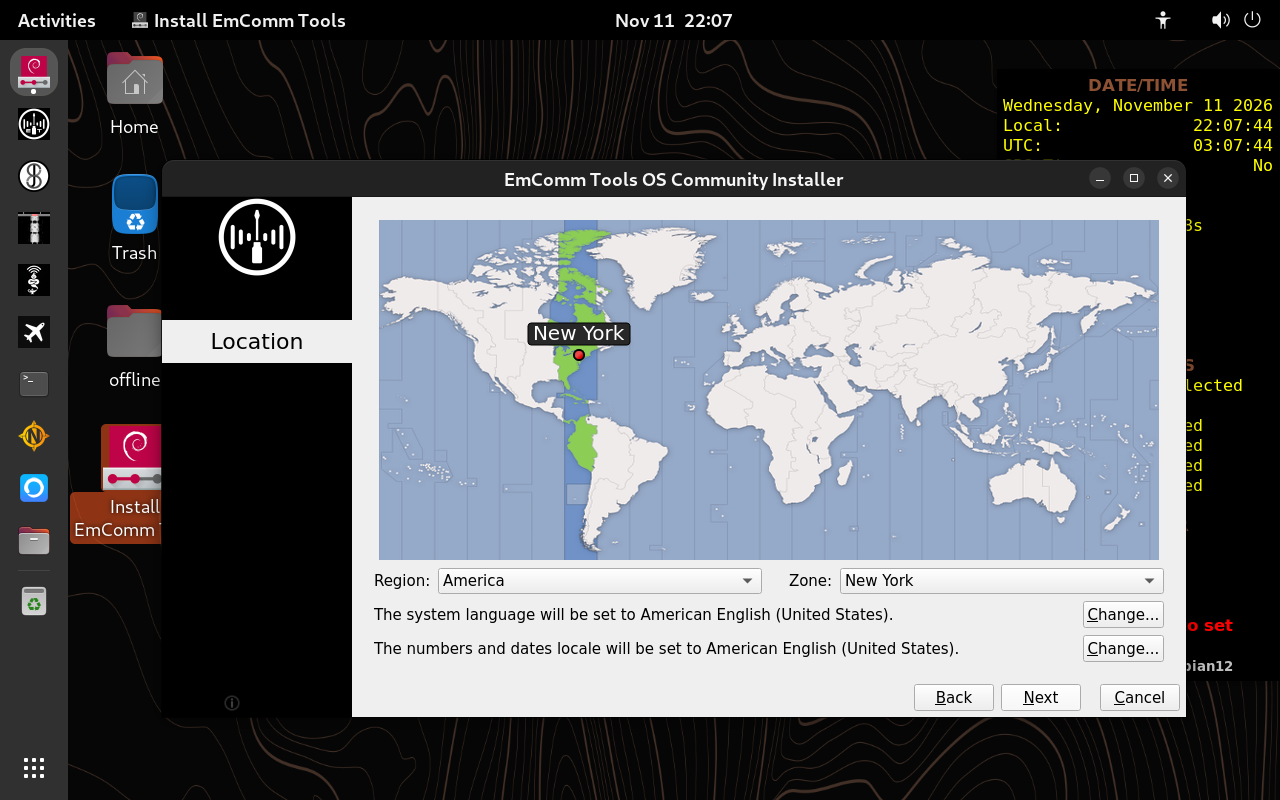
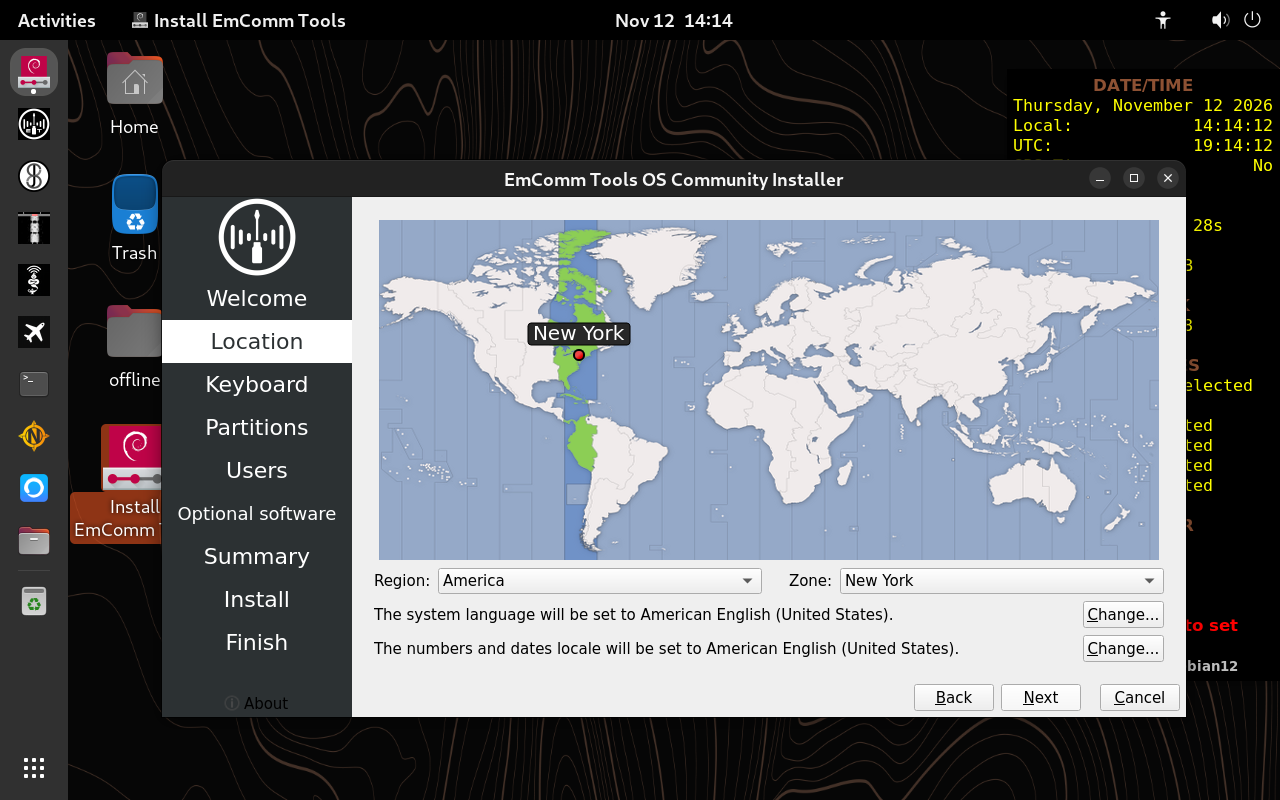
debian - Installer encryption choice as buttons; repo copy in /opt; docs
- Optional software page: "Skip encryption tools" (default) and "Install
  encryption tools", drawn as buttons by a new branding stylesheet.qss.
- Keep a read-only copy of the repository (tracked files, no git history)
  in /opt/emcomm-tools-os-community.
- build.sh no longer copies a xara-*.tar.gz into the ISO.
- Install guide: after-install steps removed pending decisions on maps,
  .zim files and xara; installer screenshots 07-15 recaptured.
- CHANGES-OVERVIEW.md, ISO-BUILD-PLAN.md updated to match.

diff --git a/CHANGES-OVERVIEW.md b/CHANGES-OVERVIEW.md
@@ -30,16 +30,16 @@ asks none, so each is handled differently now:
 
 | r7 question | Where | Now |
 |---|---|---|
-| OSM state map (Navit) | `download-osm-maps.sh` | Not in the ISO. For now, users copy a `.osm.pbf` state map to `~/my-maps/` after install ([INSTALL-GUIDE.md](docs/INSTALL-GUIDE.md)). Suggested next step: a map step after install that runs `download-osm-maps.sh` for the user when online |
-| ETC map tiles: US, Canada or world | `download-et-maps.sh` | The world map (80 MB) is in the ISO. For now, users copy US or Canada `.mbtiles` to `~/.local/share/emcomm-tools/mbtileserver/tilesets/` after install ([INSTALL-GUIDE.md](docs/INSTALL-GUIDE.md)). Suggested next step: the same map step runs `download-et-maps.sh` |
-| Wikipedia file (`ET_EXPERT`) | `download-wikipedia.sh` | No `.zim` files ship with the ISO; the Kiwix reader is installed. For now, users download or copy `.zim` files after install ([INSTALL-GUIDE.md](docs/INSTALL-GUIDE.md)). Suggested next step: the same map step also offers `download-wikipedia.sh` when online |
-| VARA/WINE notes (`ET_EXPERT`) | `install-wine.sh`, `wine.txt` | WINE, winetricks and the VARA add-on scripts (`~/add-ons/wine`) are in the ISO; VARA itself isn't. Users install it after install, with internet or by restoring a WINE backup made with `05-backup-wine-install.sh` (`cd ~ && tar -xzf etc-wine-backup-*.tar.gz`). Covered in [INSTALL-GUIDE.md](docs/INSTALL-GUIDE.md) |
+| OSM state map (Navit) | `download-osm-maps.sh` | Not in the ISO. **Decision needed:** how users add state maps after install, for example copying `.osm.pbf` files in and converting them with `maptool`, or running `download-osm-maps.sh` (needs internet; it saves into `/etc/skel`) |
+| ETC map tiles: US, Canada or world | `download-et-maps.sh` | The world map (80 MB) is in the ISO. **Decision needed:** how users add US or Canada tiles after install, for example copying `.mbtiles` files in, or running `download-et-maps.sh` (needs internet; it saves into `/etc/skel`) |
+| Wikipedia file (`ET_EXPERT`) | `download-wikipedia.sh` | No `.zim` files ship with the ISO; the Kiwix reader is installed. **Decision needed:** how users add `.zim` files after install, for example copying them in, or running `download-wikipedia.sh` (needs internet; it saves into `/etc/skel`) |
+| VARA/WINE notes (`ET_EXPERT`) | `install-wine.sh`, `wine.txt` | WINE, winetricks and the VARA add-on scripts (`~/add-ons/wine`) are in the ISO; VARA itself isn't. Users install it after install, with internet or by restoring a WINE backup made with `05-backup-wine-install.sh` (`cd ~ && tar -xzf etc-wine-backup-*.tar.gz`). `~/add-ons/wine/README.md` covers both |
 
 Other changes users will notice:
 
 | Change | Effect |
 |---|---|
-| xara | Upstream source was withdrawn; built only if `scripts/xara-*.tar.gz` is provided. Deferred to the next release |
+| xara | Not in the ISO: its source was withdrawn, and `build.sh` doesn't copy a `xara-*.tar.gz` from `scripts/`. Rust stays installed. **Decision needed:** how users add xara after install, for example building their own source with ETC's unchanged `install-xara.sh` as `scripts/xara.md` describes (needs internet for xara's Rust crates), or offline with the crates included (`cargo vendor` in the user's source, or pre-fetched into the ISO from a pinned xara `Cargo.lock`) |
 | Encryption tools | Always installed in r7. Now asked by the installer's **Optional software** page; not selected by default. The page (and `install.sh`'s prompt) says not to install them where encryption is illegal |
 | Installer | This is a Live CD ISO image and will boot into a working GNOME desktop.  Decision to install requires clicking the button
 
@@ -100,8 +100,8 @@ Debian 12 install. To watch in hardware testing: VARA under WINE 8.0.
 ## Size/Scope of this migration
 
 Branch `feature/debian-live-iso` against `release/r7` at build37
-(`emcomm-tools-os-community-20261111-r7-build37`, merged in): **95 files,
-+1,686 / −341 lines** (not counting this document).
+(`emcomm-tools-os-community-20261111-r7-build37`, merged in): **96 files,
++1,689 / −341 lines** (not counting this document).
 
 It's less than it looks:
 
@@ -117,9 +117,9 @@ It's less than it looks:
 
 | # | Category | Files | Lines +/− | Why |
 |---|---|---|---|---|
-| 1 | Installer: Ubiquity → Calamares | 22 | +313 / −209 | Ubuntu's installer doesn't exist on Debian. The 8 slideshow images only moved. The 9 Ubiquity HTML slides were deleted, and the same 8 slides were ported to one Calamares `show.qml` (264 lines). |
-| 2 | Docs | 20 | +342 | Release notes; developer build guide; end-user install guide. |
-| 3 | New ISO build (live-build) | 16 | +472 | Replaces Cubic. All new files; nothing existing changed. |
+| 1 | Installer: Ubiquity → Calamares | 23 | +344 / −209 | Ubuntu's installer doesn't exist on Debian. The 8 slideshow images only moved. The 9 Ubiquity HTML slides were deleted, and the same 8 slides were ported to one Calamares `show.qml` (264 lines). |
+| 2 | Docs | 20 | +302 | Release notes; developer build guide; end-user install guide. |
+| 3 | New ISO build (live-build) | 16 | +484 | Replaces Cubic. All new files; nothing existing changed. |
 | 4 | Debian package and OS differences | 16 | +115 / −74 | A small edit in each script that named an Ubuntu package, version or URL. |
 | 5 | Encryption tools opt-in | 11 | +221 / −23 | Distribution requirement, not Debian's. `install-crypto.sh` is most of it. The guide files (`gpg-cheatsheet.md`, `steghide.md`, `steghide.jpg`) were moved unchanged, so only users who choose the tools get them. |
 | 6 | Desktop parity with r7 | 6 | +77 / −20 | Ubuntu builds in its dock, theme and tray icons; Debian needs them added. No automatic update checks, as in r7. |
@@ -144,7 +144,8 @@ migration, at the cost of r7's look and some live-session usability:
 | `configure-user.sh` doesn't fail if `et-data` exists | Lets `install.sh` run twice on the same system | Yes; the ISO build runs it once |
 | Update checks off: GNOME Software settings and login service, apt's daily timers | r7 removed Ubuntu's update-notifier; an offline system shouldn't try | No (requested) |
 | `build.sh` keeps live-build's download cache | Faster rebuilds | Yes |
-| End-user install guide with screenshots ([INSTALL-GUIDE.md](docs/INSTALL-GUIDE.md)): Ventoy stick with a folder for maps, `.zim` files and VARA backups; booting; installing; copying those files in after install | The installer and boot steps changed from r7; users need current instructions | Yes; it's documentation only |
+| Read-only repository copy in `/opt/emcomm-tools-os-community` | ETC's scripts and test suite on every system, matching the ISO; r7's Cubic steps leave their extracted copy in the image (Cubic's terminal starts in `/root`), out of users' reach | Yes; the test suite would be copied in instead |
+| End-user install guide with screenshots ([INSTALL-GUIDE.md](docs/INSTALL-GUIDE.md)): checking the download, Ventoy stick, booting, the live system, installing | The installer and boot steps changed from r7; users need current instructions | Yes; it's documentation only |
 
 ## Verified (11–12 Nov 2026)
 
@@ -195,6 +196,7 @@ have et-api start without it.
 | `overlay/etc/calamares/branding/emcomm-tools/screenshots/*.png` (7), `background.png` | Moved from the Ubiquity slideshow, unchanged |
 | `overlay/etc/calamares/branding/emcomm-tools/show.qml` | New: the same 8 slides, as Calamares QML |
 | `overlay/etc/calamares/branding/emcomm-tools/branding.desc`, `logo.png` | New: installer name, logo and sidebar colors |
+| `overlay/etc/calamares/branding/emcomm-tools/stylesheet.qss` | New: the Optional software page's choices shown as buttons |
 | `scripts/debrand.sh` | Installs the Calamares branding instead of Ubiquity's; drops the Cubic kernel reinstall |
 
 ### 2. Docs
@@ -203,20 +205,20 @@ have et-api start without it.
 |---|---|
 | `RELEASES.md` | Release entry |
 | `ISO-BUILD-PLAN.md` | New: developer guide for building and publishing ISOs |
-| `docs/INSTALL-GUIDE.md`, `docs/install-guide/images/` | New: end-user guide (Ventoy USB stick with room for maps, `.zim` files and VARA backups; installing; after install) |
+| `docs/INSTALL-GUIDE.md`, `docs/install-guide/images/` | New: end-user guide (checking the download, Ventoy USB stick, live system, installing) |
 
 ### 3. New ISO build (live-build)
 
 | File | Purpose |
 |---|---|
 | `live-build/build.sh` | The one build command |
-| `live-build/config/hooks/normal/0900-emcomm-tools.hook.chroot` | Runs `install.sh` inside the image (before Debian's cleanup hooks); removes build files; ETC launchers in the live dock |
+| `live-build/config/hooks/normal/0900-emcomm-tools.hook.chroot` | Runs `install.sh` inside the image (before Debian's cleanup hooks); keeps a read-only repository copy in `/opt/emcomm-tools-os-community`; removes build files; ETC launchers in the live dock |
 | `live-build/config/hooks/normal/0910-grub-pc-pool.hook.binary` | Adds BIOS GRUB to the ISO's package pool (it conflicts with UEFI GRUB, so it can't go in the package list) |
 | `live-build/config/package-lists/emcomm-tools.list.chroot` | GNOME and Calamares in the image |
 | `live-build/config/package-lists/installer.list.binary` | GRUB packages carried in the ISO, so installs work offline |
 | `live-build/config/includes.chroot/etc/calamares/settings.conf` | Installer steps (Debian's, plus ETC's five) |
 | `live-build/config/includes.chroot/etc/calamares/modules/users.conf` | Groups for new users |
-| `live-build/config/includes.chroot/etc/calamares/modules/packagechooser-crypto.conf` | Optional software page |
+| `live-build/config/includes.chroot/etc/calamares/modules/packagechooser-crypto.conf` | Optional software page: **Skip encryption tools** (default) or **Install encryption tools** |
 | `live-build/config/includes.chroot/etc/calamares/modules/contextualprocess-crypto.conf` | Installs the encryption tools offline if selected |
 | `live-build/config/includes.chroot/etc/calamares/modules/shellprocess-etc-setup.conf` | ETC setup: primary group, SSH host keys |
 | `live-build/config/includes.chroot/etc/calamares/modules/shellprocess-etc-live-settings.conf` | Carries the callsign, grid and Winlink password saved in the live session to the new user |

diff --git a/ISO-BUILD-PLAN.md b/ISO-BUILD-PLAN.md
@@ -57,7 +57,6 @@ publishing.
 |---|---|---|
 | Release name (shown in the conky panel, sent as JS8Call's MyInfo) | `sudo ET_RELEASE=ETC-r8-debian12 ./build.sh` | From the last ETC tag, e.g. `ETC-r7-build37-debian12` |
 | Build folder | `sudo ET_WORK_DIR=/path ./build.sh` | `/var/tmp/etc-live-build` (emptied at the start of each build; the download cache is kept) |
-| xara modem | Put `xara-<version>.tar.gz` in `scripts/` (see `scripts/xara.md`) | Not included: xara's upstream source was withdrawn |
 
 To change what's in the image beyond these, edit the repository, the same as
 for any ETC change: `scripts/install.sh` and its scripts, `overlay/`, or
@@ -71,10 +70,12 @@ it asks which file to download, and the build runs without prompts.
 | Item | In the ISO |
 |---|---|
 | Debian 12, GNOME, EmComm Tools | Installed |
-| Maps | The global map (80 MB). Other maps are copied in after install (see [docs/INSTALL-GUIDE.md](docs/INSTALL-GUIDE.md)) |
+| Maps | The global map (80 MB). How users add other maps after install is still to be decided (see [CHANGES-OVERVIEW.md](CHANGES-OVERVIEW.md)) |
 | Encryption tools (GPA, PFTE, VeraCrypt, steghide, gpg, guides) | Carried, not installed. The person installing chooses them on the installer's **Optional software** page (not selected by default); they install from the ISO, no internet needed. They can also be added later from `/opt/emcomm-tools/add-ons/crypto` |
 | GRUB for UEFI and BIOS | Carried, so installs work offline |
+| xara modem | Not included (its source was withdrawn; a `xara-*.tar.gz` in `scripts/` isn't copied). Rust is installed. How users add xara after install is still to be decided (see [CHANGES-OVERVIEW.md](CHANGES-OVERVIEW.md)) |
 | Live session login | Debian's defaults: user `user`, password `live`. Only in the live session; installed systems have only the account created in the installer |
+| This repository | A read-only copy in `/opt/emcomm-tools-os-community` (about 10 MB, no git history): ETC's scripts and test suite, matching the ISO |
 | Accounts, home folders, SSH host keys, machine-id, logs, build files | None. Each installed system gets its own SSH host keys and machine-id |
 
 ## How the build works
@@ -85,9 +86,11 @@ it asks which file to download, and the build runs without prompts.
    `live-build/config/package-lists/emcomm-tools.list.chroot`.
 3. The `0900-emcomm-tools` chroot hook runs `install.sh` with `ET_BUILD=1`:
    no prompts, no maps beyond the global map, encryption tools prepared but not
-   installed, no existing user to set up. It then removes the repository copy
-   and the build's downloads. live-build's own cleanup hooks run after it and
-   remove logs, SSH host keys and machine-id.
+   installed, no existing user to set up. It then keeps a read-only copy of
+   the repository (tracked files, no git history) in
+   `/opt/emcomm-tools-os-community`, and removes the build copy and the
+   build's downloads. live-build's own cleanup hooks run after it and remove
+   logs, SSH host keys and machine-id.
 4. The binary stage adds Debian's signed shim and GRUB (Secure Boot), the GRUB
    packages the installer needs (the `0910-grub-pc-pool` hook adds BIOS GRUB),
    and writes the hybrid ISO (USB or DVD, BIOS or UEFI).
@@ -106,7 +109,7 @@ In a VM with UEFI and Secure Boot on, and with no network:
 1. The ISO boots to the live desktop: ETC wallpaper, dock, conky panel and boot
    splash.
 2. **Install EmComm Tools** starts the installer without a password.
-3. Install once with **Encryption tools** selected and once without. In one
+3. Install once with **Install encryption tools** selected and once without. In one
    of them, save a callsign and grid in the live session's EmComm Tools User
    Configuration first.
 4. The installed system boots with Secure Boot on, and its boot menu shows
@@ -117,8 +120,8 @@ In a VM with UEFI and Secure Boot on, and with no network:
    - `id` shows `et-data` as the primary group
    - `systemctl is-active ssh` is `active`
    - the encryption tools are there only if they were selected
-5. Run the ETC test suite (`tests/run-test-suite.sh`, copied from the
-   repository). `test-xara` fails unless xara was built.
+5. Run the ETC test suite:
+   `cd /opt/emcomm-tools-os-community/tests && ./run-test-suite.sh`. `test-xara` fails: xara isn't in the ISO.
 
 Also boot it once on a BIOS (non-UEFI) machine or VM.
 
@@ -130,5 +133,4 @@ sha256sum emcomm-tools-os-community-<date>-amd64.hybrid.iso > emcomm-tools-os-co
 
 Publish the ISO with its `.sha256` file, and point users to
 [docs/INSTALL-GUIDE.md](docs/INSTALL-GUIDE.md): it covers checking the
-download, a Ventoy USB stick, installing, and copying maps, offline Wikipedia
-and VARA backups in afterwards.
+download, a Ventoy USB stick, the live system and installing.

diff --git a/docs/INSTALL-GUIDE.md b/docs/INSTALL-GUIDE.md
@@ -8,8 +8,7 @@ disk when you're ready. No internet is needed to boot, install or run it.
 You need:
 
 - The ETC ISO file and its `.sha256` file.
-- A USB stick of 16 GB or more (32 GB or more if you'll keep maps, offline
-  Wikipedia or VARA backups on it).
+- A USB stick of 16 GB or more.
 - A 64-bit computer with 4 GB of RAM or more. For installing: 64 GB of disk
   or more. The installer erases the disk you choose.
 
@@ -52,23 +51,6 @@ macOS and Linux can all open.
 
 Copy the ISO file onto the **Ventoy** partition. You can rename it, for example
 to `emcomm-tools.iso`.
-
-### Keep your large files on the stick
-
-Make a folder on the **Ventoy** partition for files you'll want on any ETC
-system, for example:
-
-```
-etc-files/
-  maps/             .mbtiles map tiles, .osm.pbf state maps
-  wikipedia/        .zim files
-  wine-backups/     etc-wine-backup-*.tar.gz (VARA)
-```
-
-Copy files to this folder on any computer. After installing ETC, plug the stick
-into the installed system and copy them into place (see **After installing**).
-The live system can't open this folder while it's running from the same stick
-(Ventoy is using that partition).
 
 ### Secure Boot
 
@@ -137,8 +119,10 @@ tick **Encrypt system** and set a passphrase; it's asked for at every start.
 
 **Optional software:** the encryption tools (GNU Privacy Assistant, Paranoia
 File & Text Encryption, VeraCrypt, steghide, gpg and guides) are installed only
-if you select **Encryption tools**. Encryption laws differ by country: don't
-select them where possessing or using them is illegal. Click **Next** to skip.
+if you click **Install encryption tools** (it turns dark when selected).
+Encryption laws differ by country: don't select them where possessing or using
+them is illegal. To skip them, click **Skip encryption tools** or just
+**Next**.
 
 ![Optional software](install-guide/images/12-optional-software.png)
 
@@ -166,32 +150,6 @@ Log in. If you didn't save your callsign and grid square in the live system,
 
 ## 7. After installing
 
-Plug in your Ventoy stick to copy files from its `etc-files/` folder: it opens
-as **Ventoy** in Files, at `/media/<your login>/Ventoy`.
-
-**Maps.** ETC includes a world map. More detailed maps aren't included in the
-ISO yet. Copy map files from the stick's `etc-files/maps/`:
-
-- Map tiles (`.mbtiles`): copy to `~/.local/share/emcomm-tools/mbtileserver/tilesets/`
-- State maps for Navit (`.osm.pbf`): copy to `~/my-maps/`
-
-**Offline Wikipedia.** The Kiwix reader is installed; no Wikipedia files are
-included. Download `.zim` files from https://download.kiwix.org/zim/wikipedia/
-(for example the `nopic` editions, 350 MB to 1 GB each), or copy them from the
-stick's `etc-files/wikipedia/`. Put them in `~/wikipedia/` and open them in
-Kiwix.
-
-**VARA.** WINE and the VARA install scripts are included; VARA itself isn't.
-Either:
-
-- with internet, run the scripts in `~/add-ons/wine` in order, as your normal
-  user (not with `sudo`): `01-install-wine-deps.sh`, `02-install-vara-hf.sh`,
-  `03-install-vara-fm.sh` and `04-run-regedit.sh`. `~/add-ons/wine/README.md`
-  has the details for each step
-
-- or restore a backup made on another ETC system with
-  `05-backup-wine-install.sh`:
-
-  ```bash
-  cd ~ && tar -xzf /media/$USER/Ventoy/etc-files/wine-backups/etc-wine-backup-*.tar.gz
-  ```
+Maps beyond the included world map, offline Wikipedia (`.zim`) files and the
+xara modem aren't in the ISO. How to add them after install is still to be
+decided; this guide will cover it once it is.
